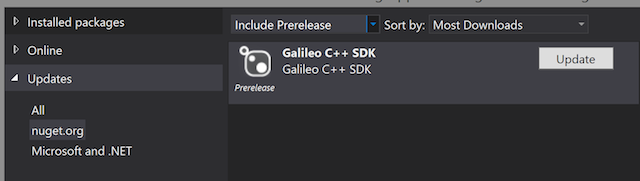
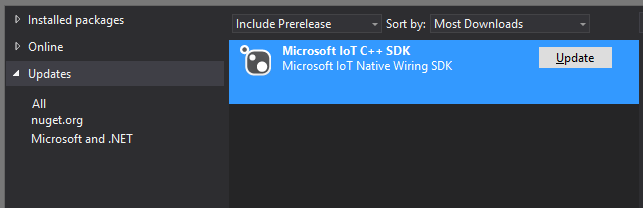
Fixup the content for release

diff --git a/index.htm b/index.htm
@@ -100,7 +100,7 @@
     </div>
     <div class="jumbotron jumbo-linklist">
       <div class="container">
-        <p><a href="WhatsNew.htm" role="button">What's new?</a>  <span class="label label-default"> Updated: 11/21/2014</span>
+        <p><a href="WhatsNew.htm" role="button">What's new?</a>  <span class="label label-default"> Updated: 12/2/2014</span>
         <p><a href="SetupGalileo.htm" role="button">Purchased your own Intel Galileo?</a></p>
         <p><a href="PortingGuide.htm" role="button">Port your project</a></p>
         <p><a href="Contribute.htm" role="button">Want to contribute?</a></p>

diff --git a/HelloBlinky.md b/HelloBlinky.md
@@ -5,7 +5,7 @@ permalink: /HelloBlinky.htm
 ---
 
 #Hello Blinky
-Learn to Create, Deploy and Debug a Windows Developer Program for IoT project.
+Learn to Create or Update, Deploy and Debug a Windows Developer Program for IoT project.
 
 ##Create a new Project
 Open Visual Studio. Select File -> New Project and Select Templates -> Visual C++ -> Windows for IoT -> Galileo Wiring app
@@ -73,6 +73,22 @@ Paste the copied IP address into the 'Remote Server Name' field on the debugging
 
 ##Result
 You should see the light blinking. If it isn't blinking, try reversing the LED leads.
+
+##Convert to Lightning
+If you have a project which was created before December 1st, 2014, you will need to convert it to Lightning. 
+
+1. From within your existing solution, right click on the project and select ```Manage Nuget Packages```
+1. Select ```Installed Packages``` in the left column
+
+   ![Installed](images/HelloBlinky_UninstallGalileoSDK.PNG)
+
+1. Select ```Online``` then Nuget.org
+1. In the ```Search``` box in the upper right hand corner of the dialog, search for ```Microsoft IoT C++```
+1. Select install
+
+   ![Installed](images/HelloBlinky_InstallNative.PNG)
+
+1. Rebuild your project
 
 ## Update your project
 The Microsoft IoT team and the community are adding features and fixing bugs in the SDK. In order to take advantage of these changes, you'll need to manually update your project.

diff --git a/SetupGalileo.md b/SetupGalileo.md
@@ -33,11 +33,11 @@ Requirements:
 
 Software Packages:
 
-* [apply-BootMedia.cmd](http://go.microsoft.com/fwlink/?LinkID=403796){:target="_blank"}
+* [apply-BootMedia.cmd](http://go.microsoft.com/fwlink/?LinkID=403796){:target="_blank"} 
 * [Microsoft Windows for Intel Galileo](http://go.microsoft.com/fwlink/?LinkID=513083&clcid=0x409){:target="_blank"}
 
 ***NOTE:***
-As of November 2014, only a single Windows image is needed for either Intel Galileo Gen1 or Gen2.
+As of December 2014, only a single Windows image is needed for either Intel Galileo Gen1 or Gen2.
 
 # Write Windows to the microSD card
 
@@ -64,7 +64,7 @@ Please follow the [Intel's Getting Started Guide](https://communities.intel.com/
 : When extracting the Intel Galileo package, please extract into the root of your drive and make sure that the path does not contain spaces.
 
 ## Intel Galileo Gen 2 Firmware Update
-The Intel Galileo Gen 2 does not currently require a firmware update.
+The Intel Galileo Gen 2 does not require a firmware update.
 
 ## Connecting and booting Windows
 Connecting the Galileo directly to your computer will allow you to communicate with just your Galileo. Your computer will still have internet connectivity, and your computer will be able to communicate with your Galileo.

diff --git a/SampleApps.md b/SampleApps.md
@@ -16,7 +16,7 @@ permalink: /SampleApps.htm
   <!-- Example row of columns -->
   <div class="row">
     <div class="col-md-4">
-      <h2>Hello Blinky</h2> <span class="label label-default">Updated: 11/17/2014</span>
+      <h2>Hello Blinky</h2> <span class="label label-default">Updated</span>
       <p>Learn how to create a new project, configure Visual Studio for Deployment and Debugging, and learn how to use General Purpose IO using Wiring.</p>
       <p><a class="btn btn-default" href="HelloBlinky.htm" role="button">View details &raquo;</a></p>
     </div>
@@ -96,6 +96,7 @@ permalink: /SampleApps.htm
       <p>Learn to run node.js on a galileo and call APIs from a javscript file.</p>
       <p><a class="btn btn-default" href="NodeJS.htm" role="button">View details &raquo;</a></p>
     </div>
+    -->
     <!-- This section has been removed until the sample can be rewritten for Lightning 
     div class="col-md-4">
       <h2>Firmata and Cylon</h2>

diff --git a/WhatsNew.md b/WhatsNew.md
@@ -4,12 +4,16 @@ title: What's new
 permalink: /WhatsNew.htm
 ---
 
-# 11/21/2014
+# 12/2/2014
   * Announcing [Lightning](Lightning.htm){:target="_blank"} for Intel Galileo Gen1 and Gen2!
   * Significant support for Wiring Language, Libraries and Classes
   * You spoke, we listened! We put the "I" in IoT with new networking [samples](SampleApps.htm) and documentation
     * [C++ REST SDK](Casablanca.htm)
     * [Audio streaming](https://github.com/ms-iot/sample-twoway-communicator)
+  * This update contains changes in every release package. 
+    * Please revisit [Setup your PC](SetupPC.htm)
+    * Please revisit [Setup your Galileo](SetupGalileo.htm)
+    * Please revisit [Hello Blinky](HelloBlinky.htm)
 
 # 10/15/2014
   * PWM and ADC are now supported on Intel Galileo Gen2.

diff --git a/SetupPC.md b/SetupPC.md
@@ -13,7 +13,7 @@ permalink: /SetupPC.htm
   You can find step by step instructions for signing up for Microsoft Connect <a href="SigninMSConnect.htm" target="_blank">here</a><br/>
   <hr/>
   <h2> Windows Developer Program for IoT Developer Tools</h2>
-  <span class="label label-default">Visual Studio extension updated: 11/21/2014</span>
+  <span class="label label-default">Visual Studio extension updated: 12/2/2014</span>
   <p>The Windows Developer Program for IoT contains tools and templates which allow you to build applications for the Intel Galileo.</p>
   <div class="panel panel-danger">
     <div class="panel-heading">Note:</div>
